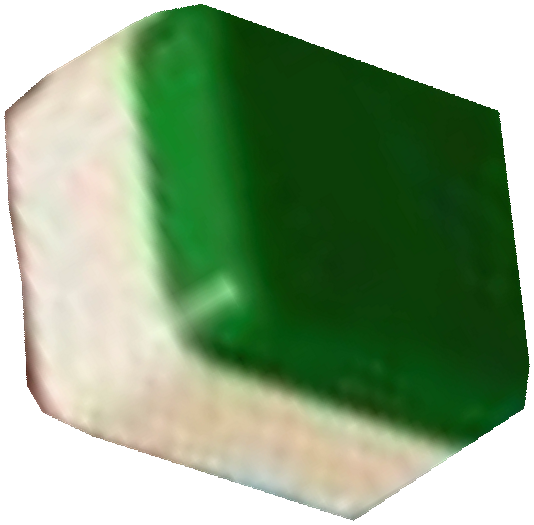
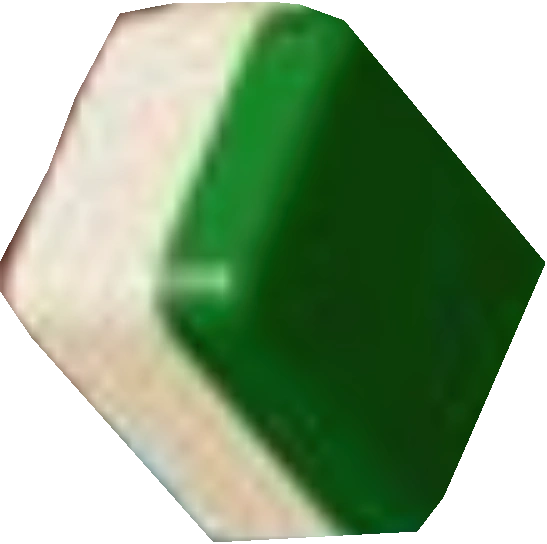
fix: mahjong-m v1.2.9 lock elevation CUBOID, not axis-align
User confirmed standing angle; revert mistaken straighten bake in 1.2.9.

diff --git a/mahjong-m.LOCKED-1.2.9.html b/mahjong-m.LOCKED-1.2.9.html
@@ -312,7 +312,7 @@
       opacity: 1;
       transform: none;
     }
-    /* 单张：仰角 CUBOID 摆正成列（绿背一排/白面一排）×0.729 同上版；禁 rotateY */
+    /* 单张：仰角 CUBOID（用户确认立起角度）×0.729 同上版；禁 rotateY */
     .hand-left .hand-tile {
       width: 100%;
       height: calc(100% / 13);

diff --git a/mahjong-m.html b/mahjong-m.html
@@ -312,7 +312,7 @@
       opacity: 1;
       transform: none;
     }
-    /* 单张：仰角 CUBOID 摆正成列（绿背一排/白面一排）×0.729 同上版；禁 rotateY */
+    /* 单张：仰角 CUBOID（用户确认立起角度）×0.729 同上版；禁 rotateY */
     .hand-left .hand-tile {
       width: 100%;
       height: calc(100% / 13);
